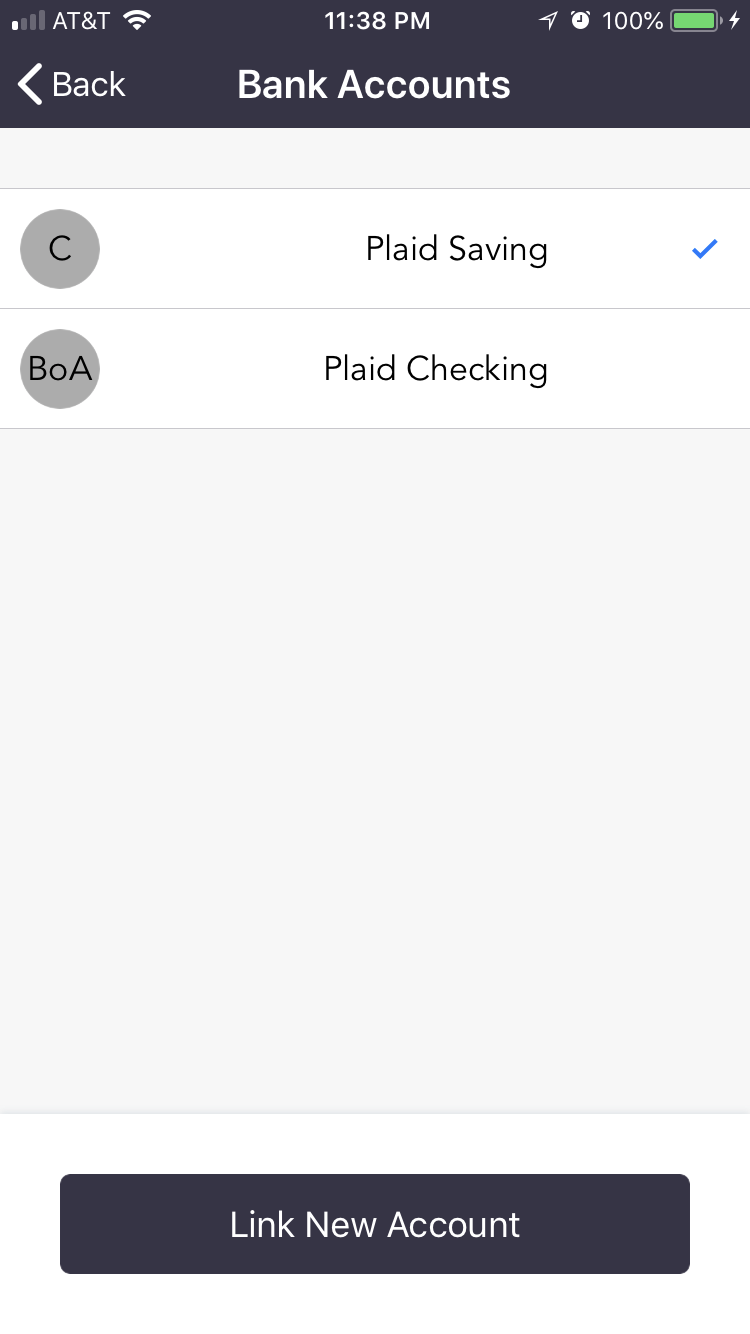
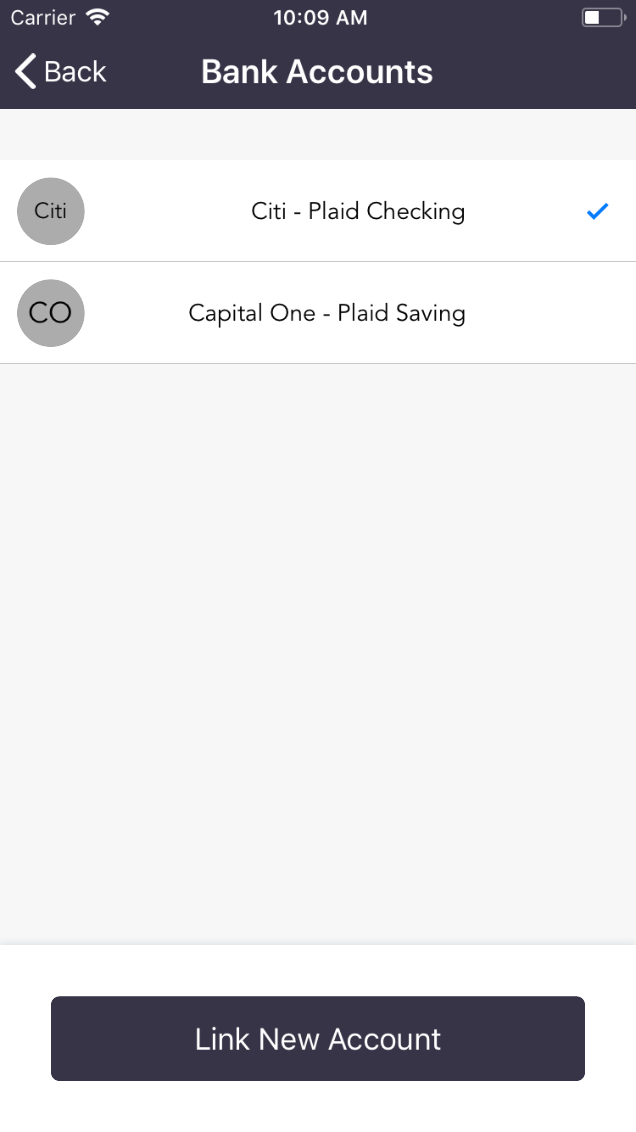
Updates - UI

diff --git a/Dracker/Cell Models/Table View/AccountCell.swift b/Dracker/Cell Models/Table View/AccountCell.swift
@@ -4,7 +4,8 @@ class AccountCell: BaseTableViewCell {
     let size: CGFloat = 40
     let name: UILabel = {
         let label = UILabel()
-        label.font = UIFont(name: "Avenir-Book", size: 17)
+        label.font = UIFont(name: "Avenir-Book", size: 14)
+        label.numberOfLines = 3
         return label
     }()
     lazy var image_view: UIView = {
@@ -37,10 +38,11 @@ class AccountCell: BaseTableViewCell {
         setup_image()
         addConstraintsWithFormat(format: "H:[v0]-100-|", views: name)
         center_Y(item: name)
+        name.heightAnchor.constraint(equalToConstant: frame.height).isActive = true
     }
     
     func setup(account: Account) {
-        name.text = account.name
+        name.text = account.institution + " - " + account.name
         institution.text = get_initial(institution: account.institution)
         if account.is_default {
             accessoryType = .checkmark
